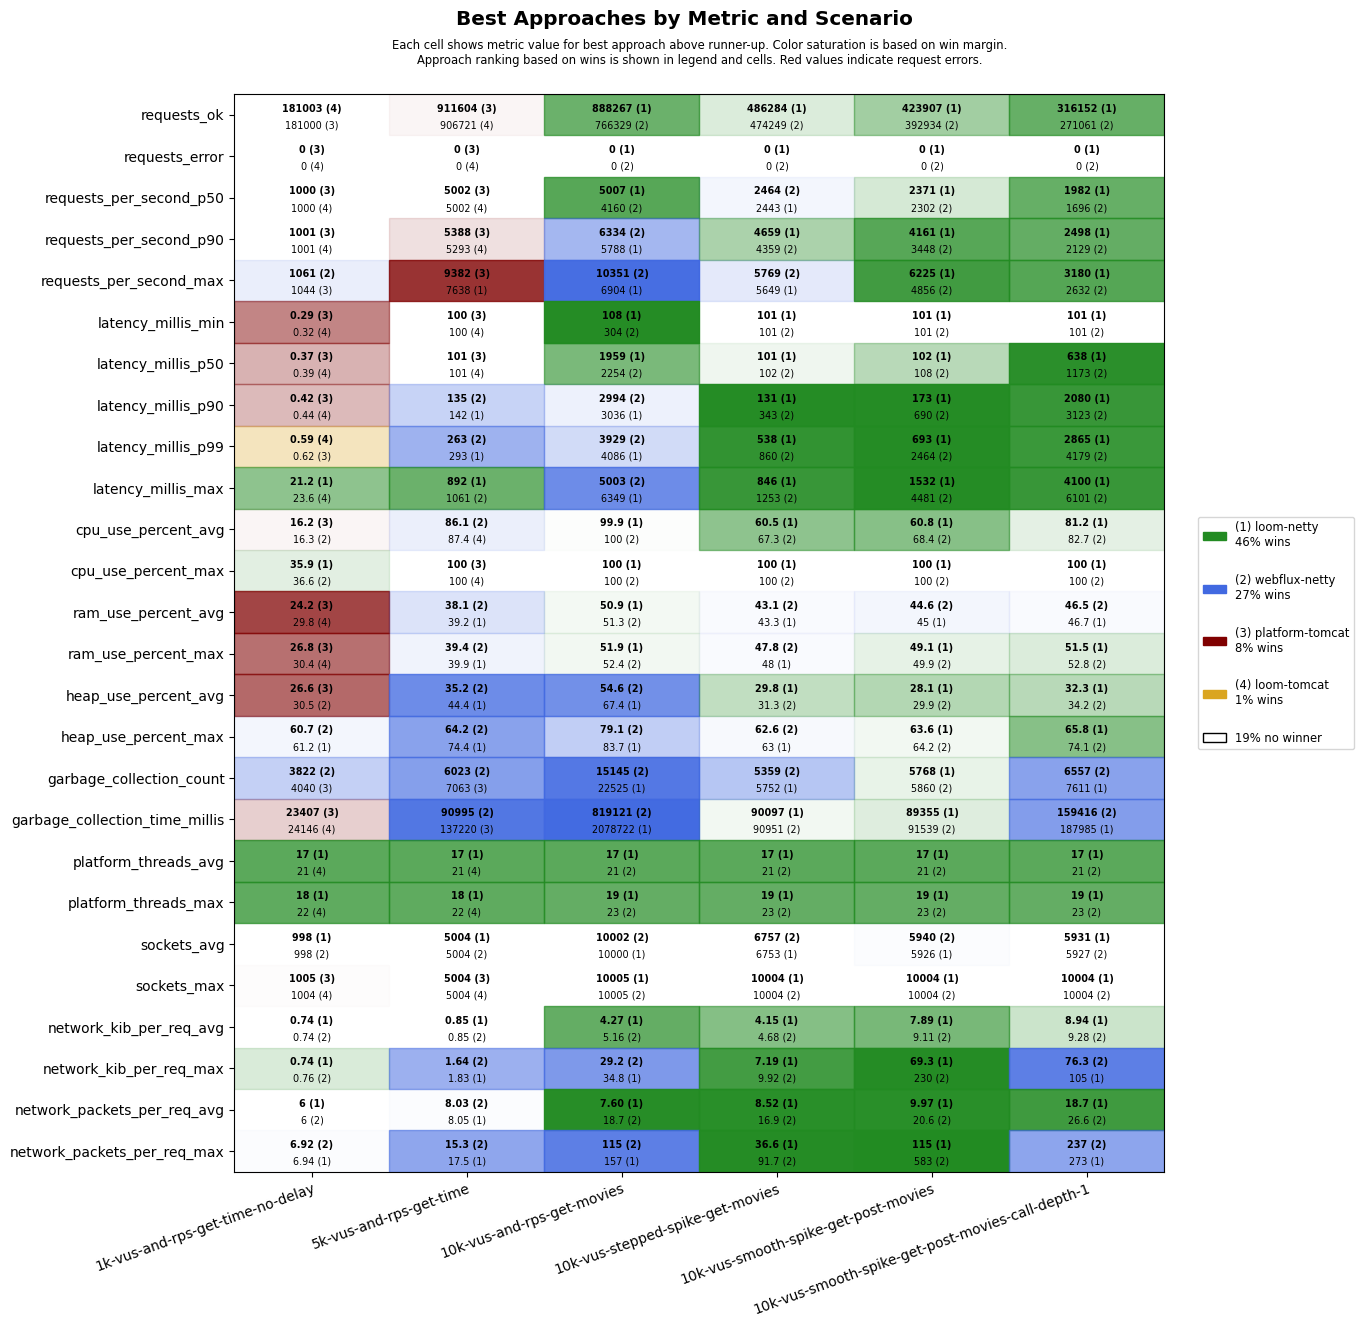
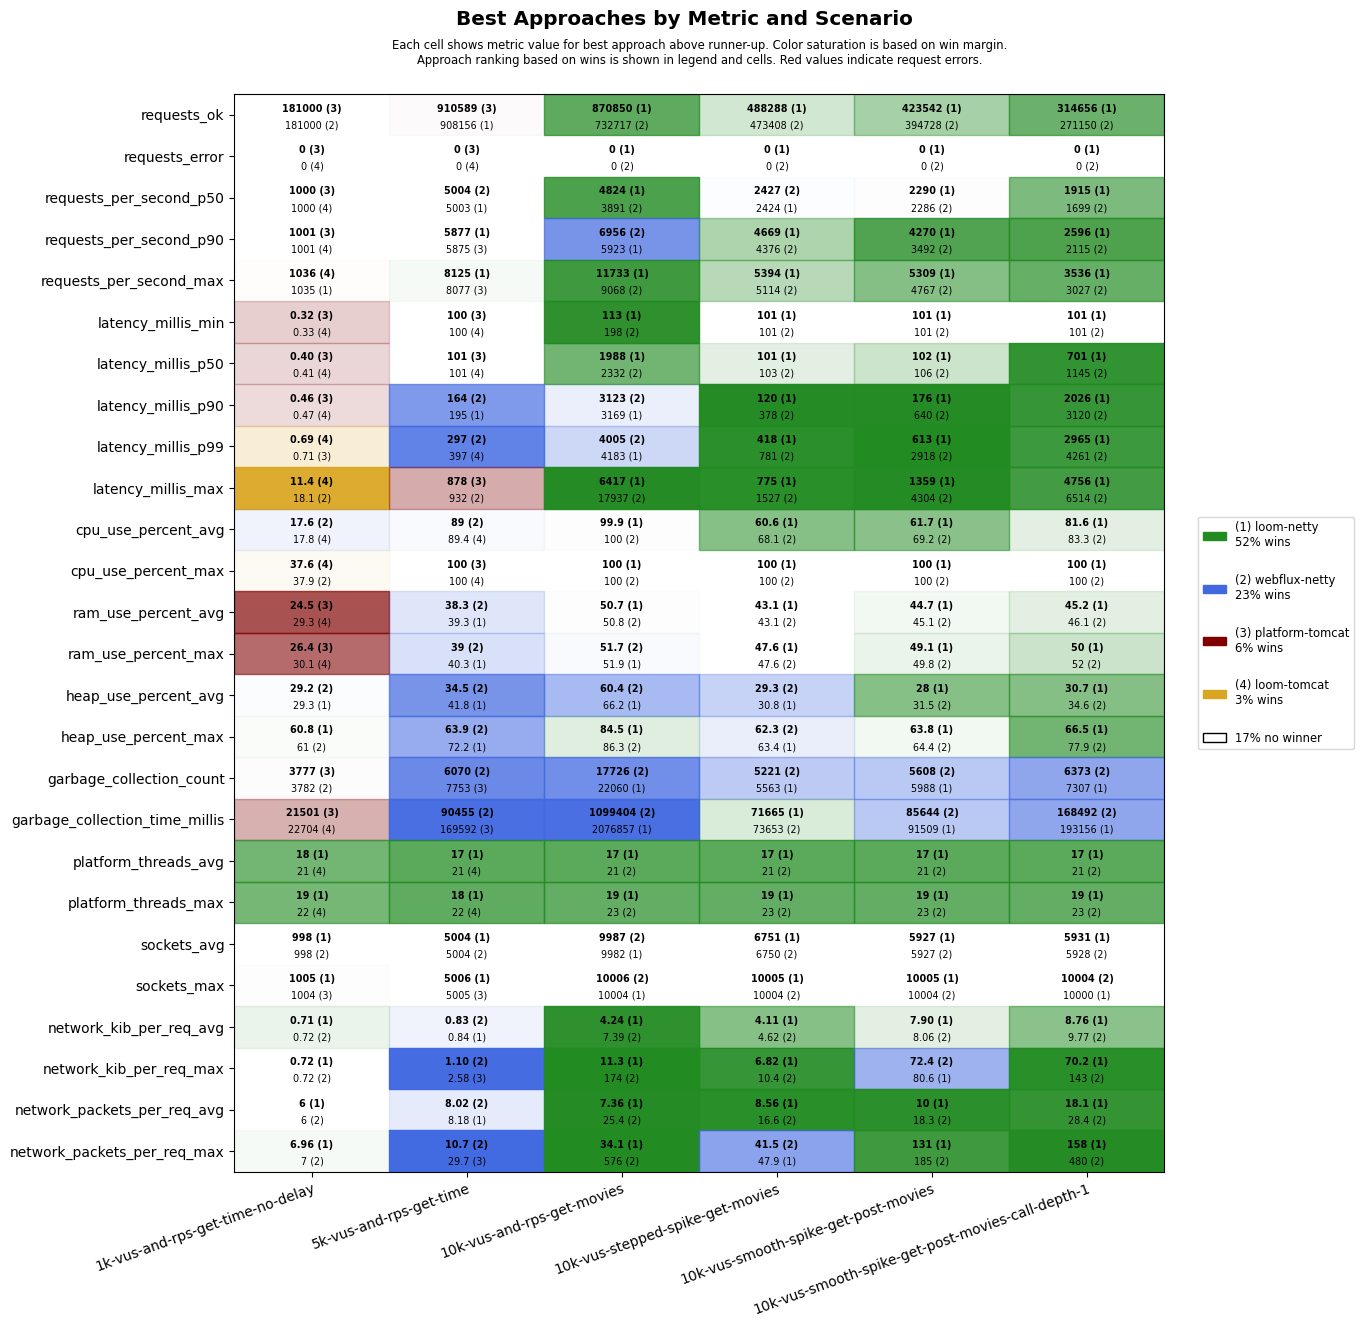
Apply automatic changes

diff --git a/results/ci/scenarios-ci/Ubuntu-22.04/java-21/results.md b/results/ci/scenarios-ci/Ubuntu-22.04/java-21/results.md
@@ -4,22 +4,22 @@
 
 | **Name**                | **Value** |
 |-------------------------|-----------|
-| **Start (UTC)** | 2025-05-02 03:10:28 |
-| **End (UTC)** | 2025-05-02 04:34:42 |
-| **Duration (hh:mm:ss)** | 01:24:14 |
+| **Start (UTC)** | 2025-07-02 03:21:42 |
+| **End (UTC)** | 2025-07-02 04:45:55 |
+| **Duration (hh:mm:ss)** | 01:24:13 |
 
 ## System Specs
 
 | **Name**                | **Value** |
 |-------------------------|-----------|
 | **Java** | OpenJDK 64-Bit Server VM Corretto-21.0.7.6.1 (build 21.0.7+6-LTS, mixed mode, sharing) |
-| **Spring Boot** | 3.4.5 |
+| **Spring Boot** | 3.5.3 |
 | **Python** | 3.10.12 |
 | **OS** | Ubuntu 22.04.5 LTS |
-| **Kernel** | 6.8.0-1027-azure |
+| **Kernel** | 6.8.0-1029-azure |
 | **CPU** | AMD EPYC 7763 64-Core Processor |
 | **CPU Cores** | 4 |
-| **RAM** | 15Gi total, 12Gi available |
+| **RAM** | 15Gi total, 11Gi available |
 | **Disk** | 159G total, 95G available |
 
 ## Scenarios
